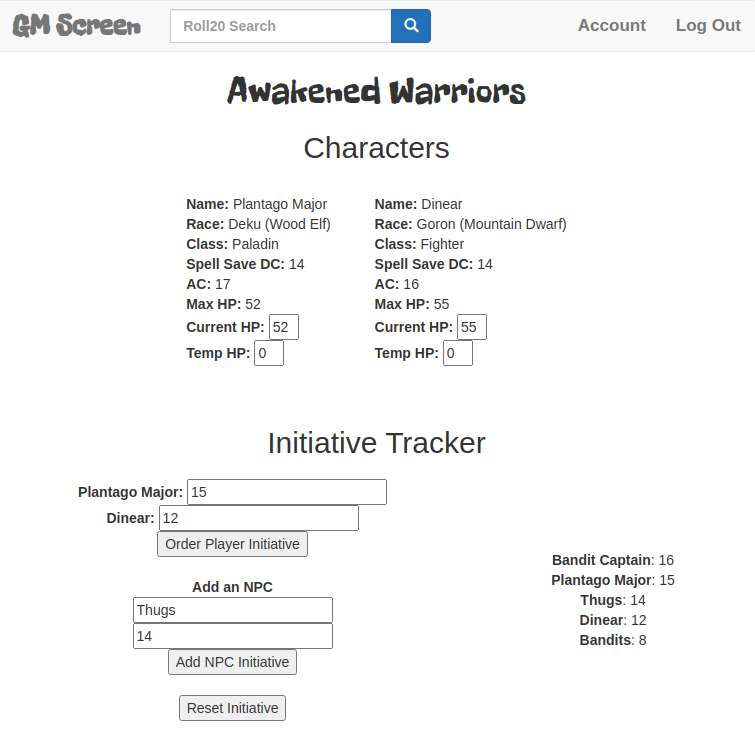
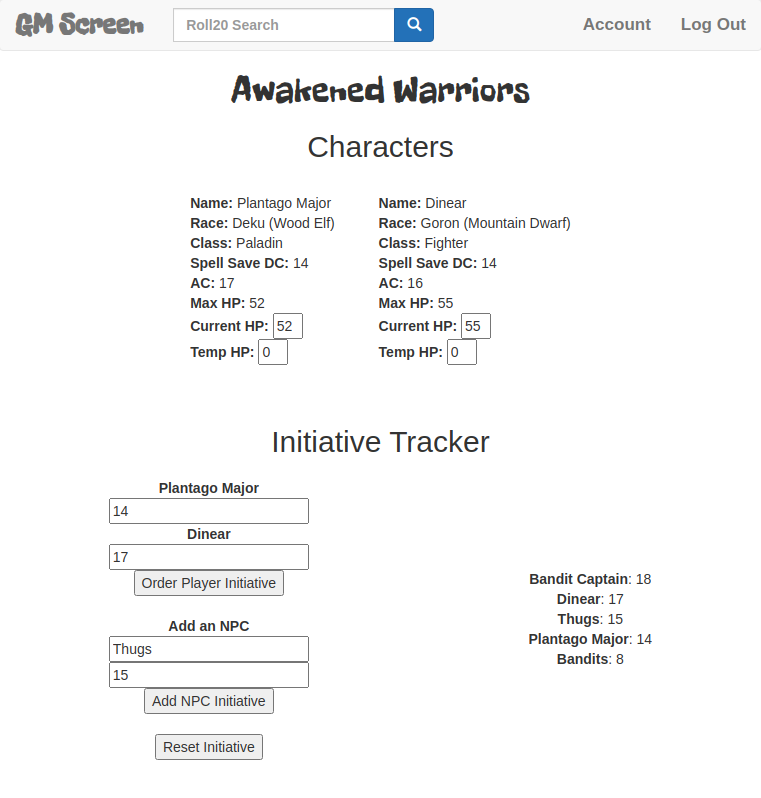
fixed formatting issue for play campaign page

diff --git a/templates/play_campaign.html b/templates/play_campaign.html
@@ -114,7 +114,7 @@ Campaign
   <div class='child inline-block-child' id="init_form">
     <form id="char_inits">
       {% for char in chars %}
-      <strong>{{ char.name }}: </strong><input type="number" min="1" max="50" style="width: 200px;"
+      <strong>{{ char.name }}</strong><br><input type="number" min="1" max="50" style="width: 200px;"
         name="{{ char.name }}" placeholder="{{ char.name }}'s Initiative"><br>
       {% endfor %}
       <button type="button" onclick="orderCharInits()">Order Player Initiative</button><br><br>
